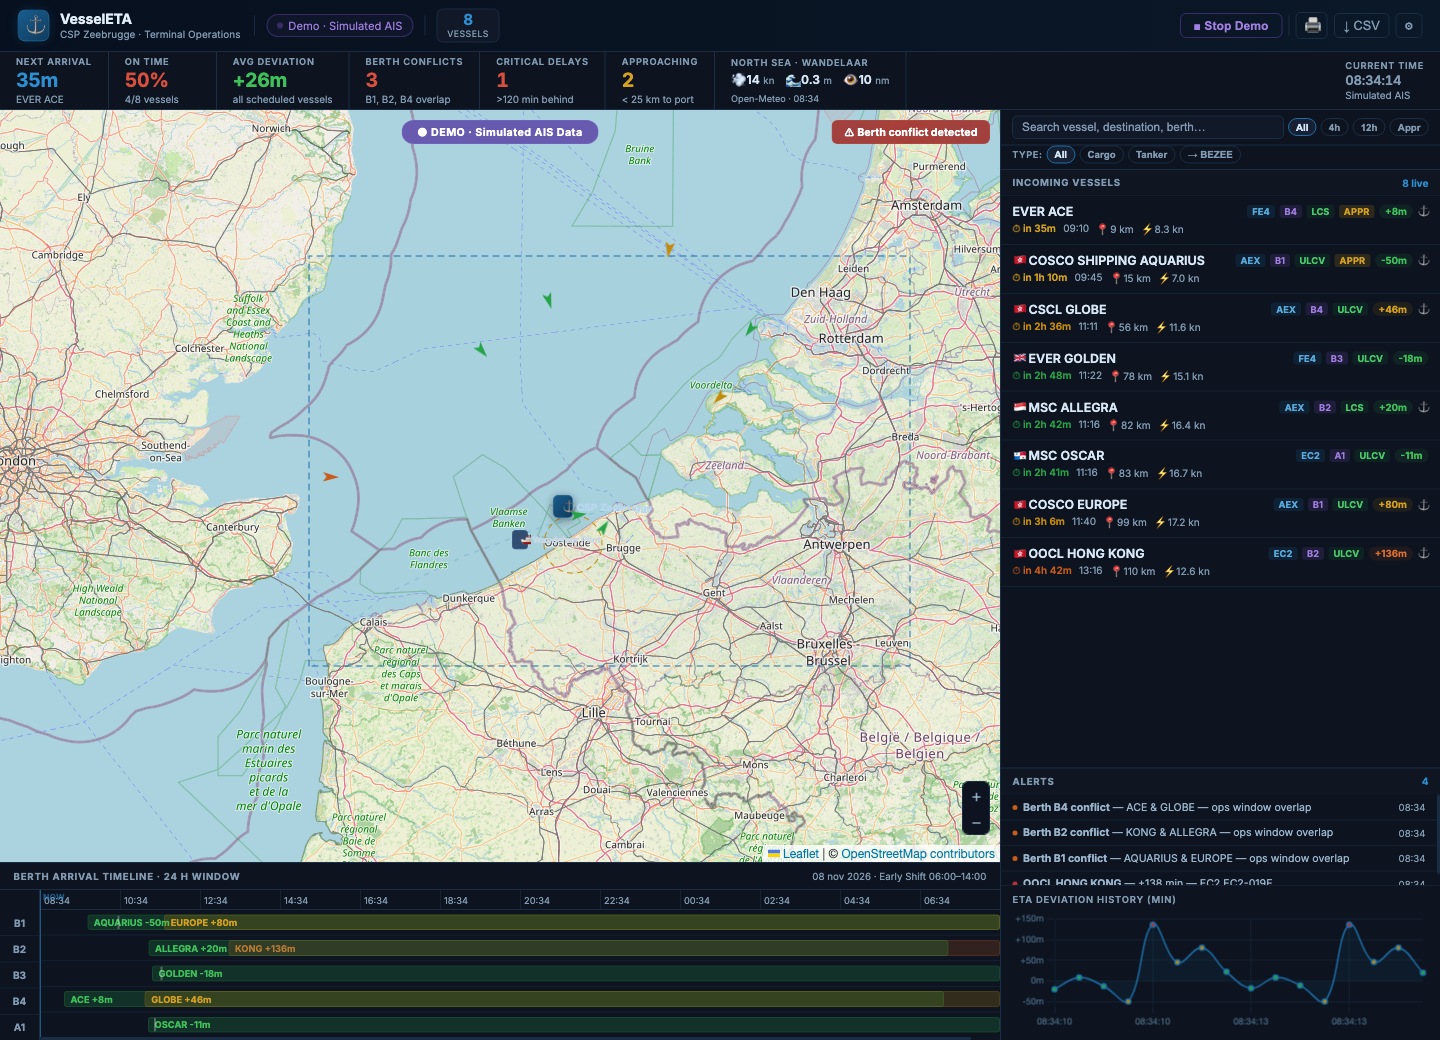
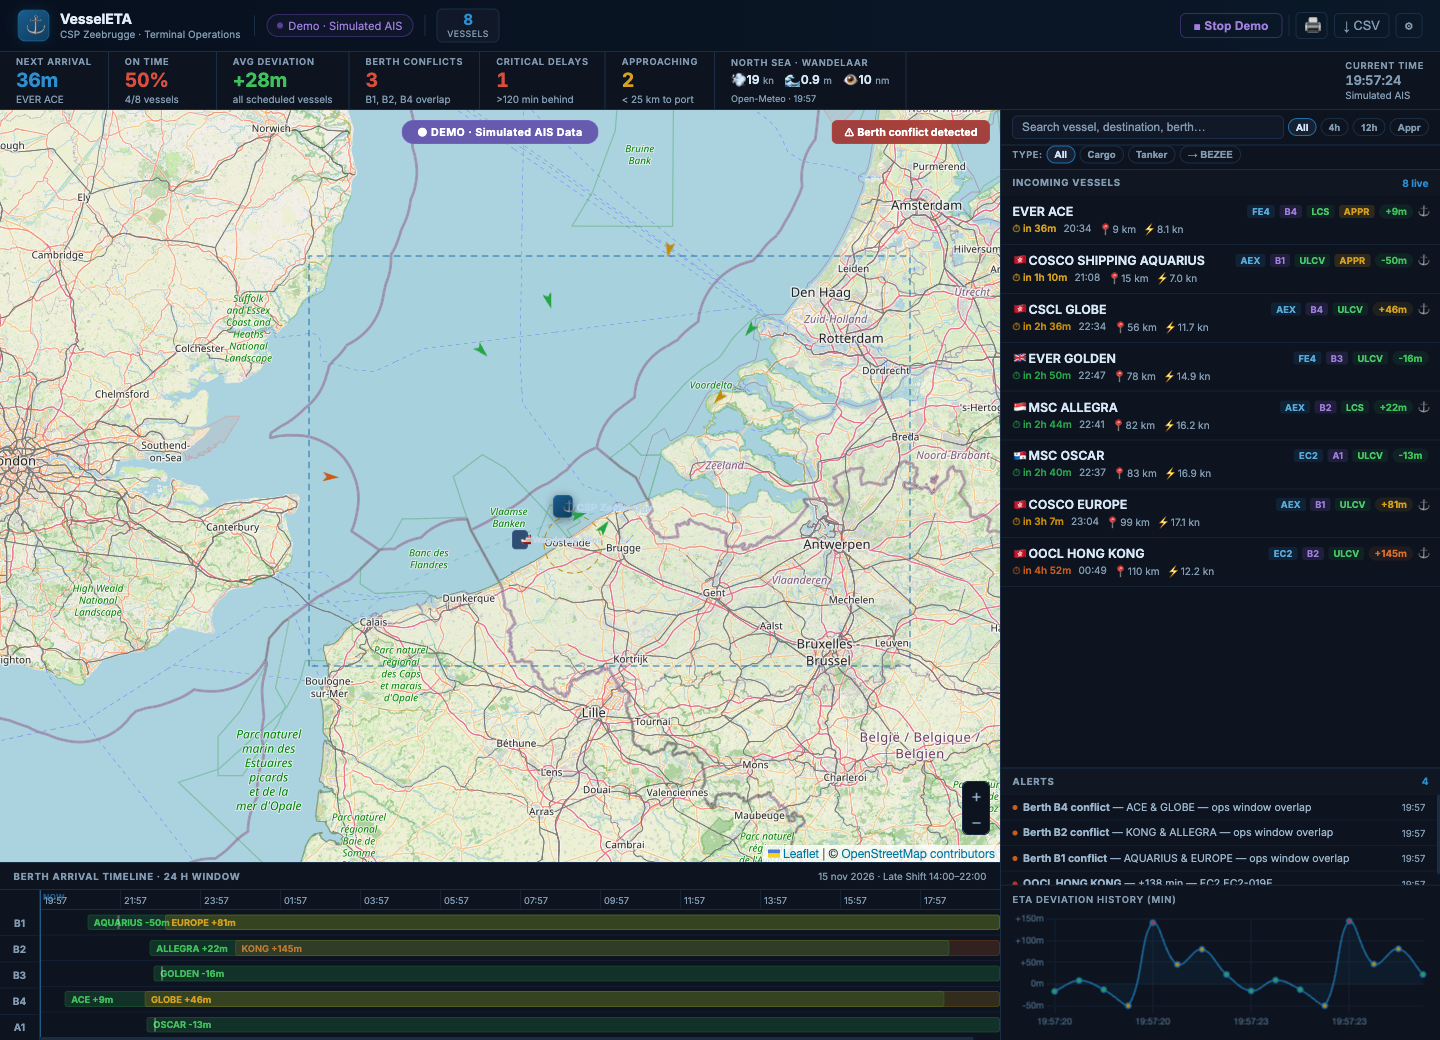
Finalize verified portfolio release with current browser evidence

diff --git a/docs/VERIFICATION.md b/docs/VERIFICATION.md
@@ -29,3 +29,15 @@ The public deployment is built from the committed source by
 `.github/workflows/portfolio-pages.yml`. Review its Actions run for the exact
 commit and deployment result; this note is not a claim of production integration
 certification, a full accessibility audit or a penetration test.
+
+## Final review — 15 November 2026
+
+The published demo was rechecked in Chromium using Playwright at 1440 × 1040
+and 390 × 844. Page identity, meaningful content, absence of framework overlays,
+working user interactions and CSV contents all passed. No uncaught JavaScript
+errors or page-level horizontal overflow were observed. Desktop and mobile
+screenshots were refreshed from the published demo.
+
+The exact routes, viewports and interaction checks are recorded in
+[the machine-readable final review](verification/final-review.json).
+The finalized source is preserved by the `portfolio-2026-11-15` release tag.

diff --git a/README.md b/README.md
@@ -149,3 +149,7 @@ CSP Zeebrugge handles vessels on the AEX, EC2, and FE4 service loops — connect
 ## License
 
 MIT — see [LICENSE](LICENSE)
+
+## Final portfolio release
+
+[Final source snapshot — 15 November 2026](https://github.com/phlppgdfry/vessel-eta-tracker/releases/tag/portfolio-2026-11-15) · [Verification evidence](docs/VERIFICATION.md)
